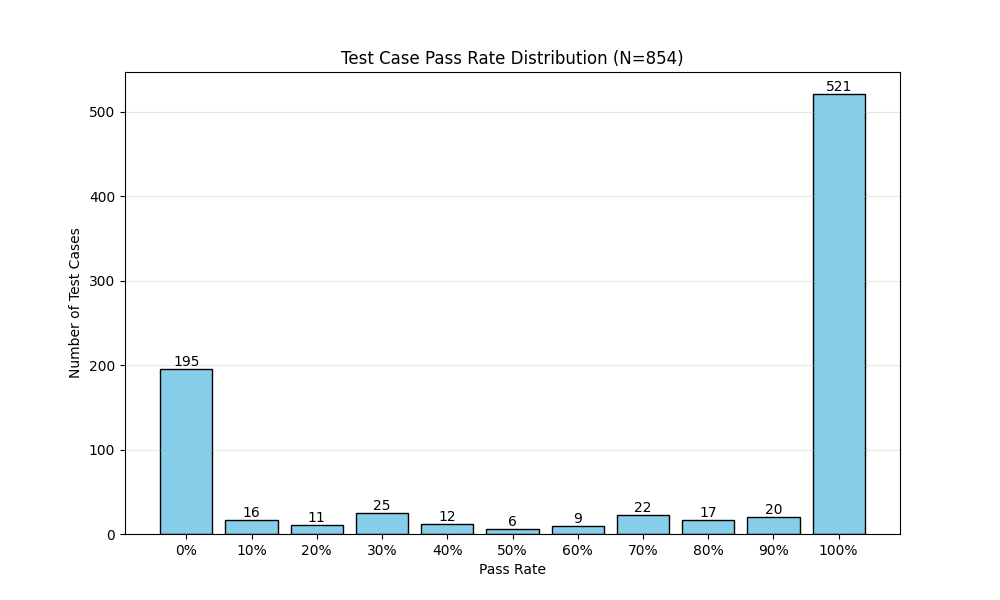
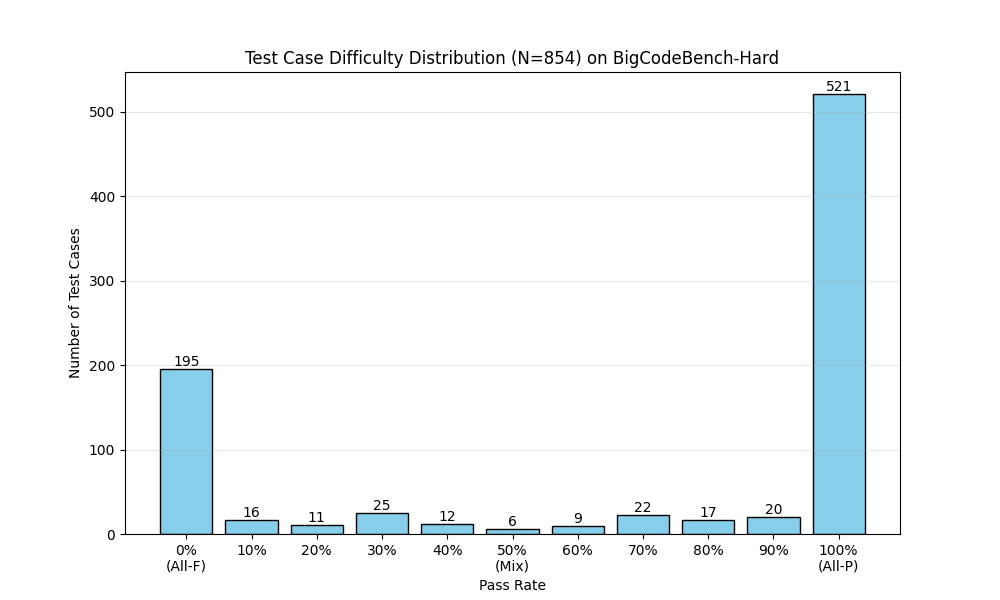
fix: tc distribution

diff --git a/BigCodeBench_Hard/actual_exec/classify_tc_difficulty.py b/BigCodeBench_Hard/actual_exec/classify_tc_difficulty.py
@@ -123,9 +123,9 @@ def main():
     OUTPUT_DIR.mkdir(parents=True, exist_ok=True)
 
     # 5) Existing: classify and save histogram + jsons
-    easy_tcs = []
-    medium_tcs = []
-    hard_tcs = []
+    all_p_tcs = []
+    mix_tcs = []
+    all_f_tcs = []
     all_pass_rates = []
 
     # Pass Rate Bucket Counts: 0/10 (0%), 1/10 (10%), ..., 10/10 (100%)
@@ -138,13 +138,13 @@ def main():
         rate = 0.0 if total == 0 else pass_count / total
         all_pass_rates.append(rate)
 
-        # Classify Easy/Medium/Hard
+        # Classify All-P/Mix/All-F
         if rate == 1.0:
-            easy_tcs.append(unique_id)
+            all_p_tcs.append(unique_id)
         elif rate == 0.0:
-            hard_tcs.append(unique_id)
+            all_f_tcs.append(unique_id)
         else:
-            medium_tcs.append(unique_id)
+            mix_tcs.append(unique_id)
 
         # Bucket count for plotting
         # If total=10, pass_count is 0..10 -> direct index
@@ -160,12 +160,23 @@ def main():
     x_indices = range(11) # 0 to 10
     bars = plt.bar(x_indices, bucket_counts, color='skyblue', edgecolor='black')
     
-    plt.title(f'Test Case Pass Rate Distribution (N={len(all_pass_rates)})')
+    plt.title(f'Test Case Difficulty Distribution (N={len(all_pass_rates)}) on BigCodeBench-Hard')
     plt.xlabel('Pass Rate')
     plt.ylabel('Number of Test Cases')
     
     # X-axis labels: 0%, 10%, ..., 100%
-    xtick_labels = [f"{i*10}%" for i in x_indices]
+    # Add All-F, Mix, All-P annotations
+    xtick_labels = []
+    for i in x_indices:
+        label = f"{i*10}%"
+        if i == 0:
+            label += "\n(All-F)"
+        elif i == 10:
+            label += "\n(All-P)"
+        elif i == 5:
+             label += "\n(Mix)"
+        xtick_labels.append(label)
+        
     plt.xticks(x_indices, xtick_labels)
     
     # Add value labels on top of bars
@@ -187,9 +198,9 @@ def main():
         with open(path, "w") as f:
             json.dump({"count": len(tc_list), "ids": tc_list}, f, indent=2)
 
-    save_category("easy", easy_tcs)
-    save_category("medium", medium_tcs)
-    save_category("hard", hard_tcs)
+    save_category("all_p", all_p_tcs)
+    save_category("mix", mix_tcs)
+    save_category("all_f", all_f_tcs)
 
     # Save detailed counts
     count_data = {}
@@ -204,10 +215,10 @@ def main():
 
     print("-" * 30, flush=True)
     print("TC Level Classification Complete:", flush=True)
-    print(f"Easy (100% pass): {len(easy_tcs)}", flush=True)
-    print(f"Medium (Mixed):   {len(medium_tcs)}", flush=True)
-    print(f"Hard (0% pass):   {len(hard_tcs)}", flush=True)
-    print(f"Total Test Cases: {len(all_pass_rates)}", flush=True)
+    print(f"All-P (100% pass): {len(all_p_tcs)}", flush=True)
+    print(f"Mix (Mixed):       {len(mix_tcs)}", flush=True)
+    print(f"All-F (0% pass):   {len(all_f_tcs)}", flush=True)
+    print(f"Total Test Cases:  {len(all_pass_rates)}", flush=True)
     print(f"Saved to {OUTPUT_DIR}", flush=True)
 
 
